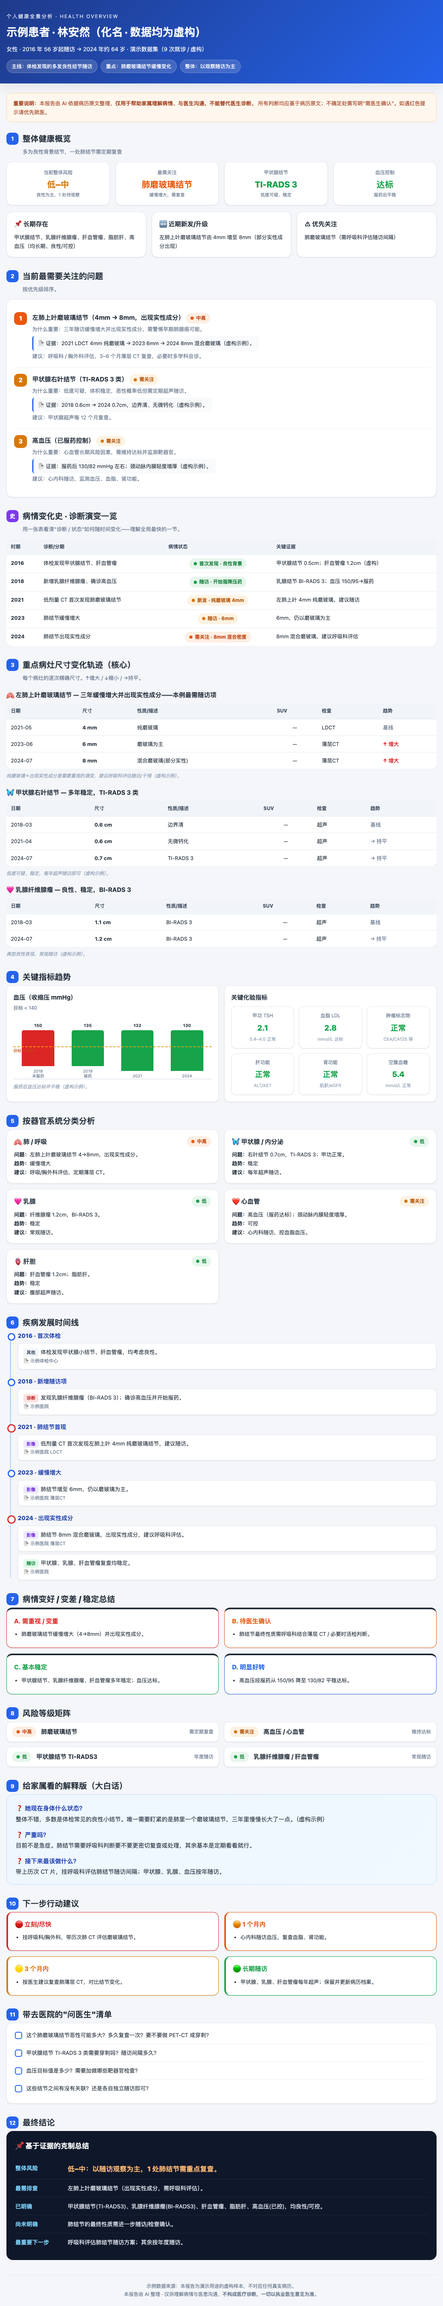
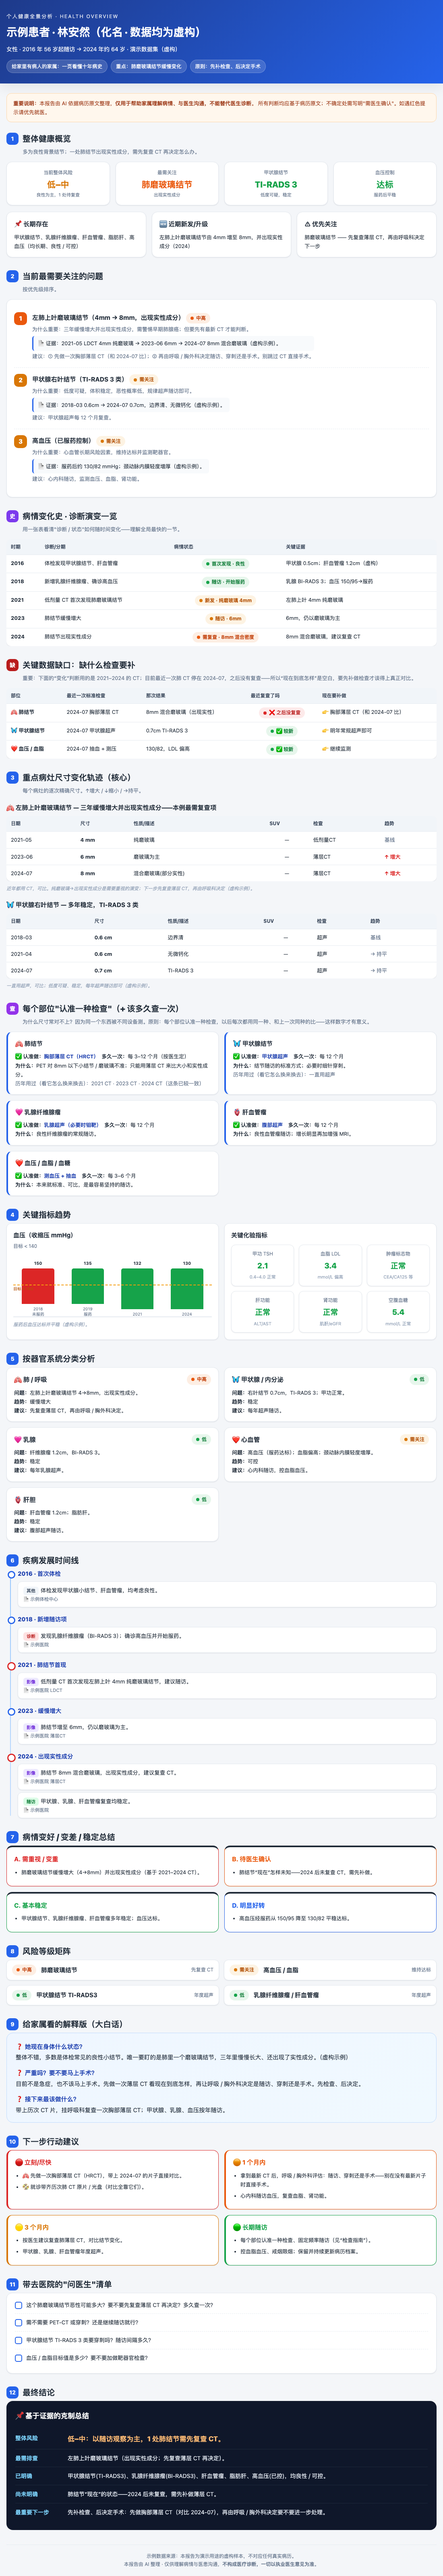
feat: data-gap table,认准一种检查 follow-up plan, check-first ordering
Add two new generator sections: data_gaps (which standard exam each site is
missing / go get it) and exam_plan (认准一种检查 + how often = what a proper
checkup should include). Enforce 'examine first, decide surgery later' in the
sample. Per-lesion rows now emphasize year-month + modality so same-site
comparisons are honest. Refreshed fictional sample, preview images, schema,
SKILL.md, and a re-positioned README for family caregivers.

diff --git a/examples/sample_report.html b/examples/sample_report.html
@@ -75,79 +75,89 @@ footer{text-align:center;color:var(--muted);font-size:12px;margin-top:36px;paddi
 </style></head><body><header class="top"><div class="wrap">
       <div class="brand">个人健康全景分析 · HEALTH OVERVIEW</div>
       <h1>示例患者 · 林安然（化名 · 数据均为虚构）</h1>
-      <div class="sub">女性 · 2016 年 56 岁起随访 → 2024 年约 64 岁 · 演示数据集（9 次就诊 / 虚构）</div>
-      <div class="pills"><span class="pill">主线：体检发现的多发良性结节随访</span><span class="pill">重点：肺磨玻璃结节缓慢变化</span><span class="pill">整体：以观察随访为主</span></div>
+      <div class="sub">女性 · 2016 年 56 岁起随访 → 2024 年约 64 岁 · 演示数据集（虚构）</div>
+      <div class="pills"><span class="pill">给家里有病人的家属：一页看懂十年病史</span><span class="pill">重点：肺磨玻璃结节缓慢变化</span><span class="pill">原则：先补检查、后决定手术</span></div>
     </div></header><div class="wrap">
 <div class="disclaimer"><b>重要说明：</b>本报告由 AI 依据病历原文整理，<b>仅用于帮助家属理解病情、与医生沟通，不能替代医生诊断</b>。
       所有判断均应基于病历原文；不确定处需写明"需医生确认"。如遇红色提示请优先就医。</div>
 <section><h2 class="sec"><span class="num">1</span>整体健康概览</h2>
-          <p class="sec-desc">多为良性背景结节，一处肺结节需定期复查</p>
-          <div class="stats" style="margin-bottom:16px"><div class="stat"><div class="k">当前整体风险</div><div class="v" style="color:var(--yellow)">低–中</div><div class="note">良性为主，1 处待观察</div></div><div class="stat"><div class="k">最需关注</div><div class="v" style="color:var(--orange)">肺磨玻璃结节</div><div class="note">缓慢增大，需复查</div></div><div class="stat"><div class="k">甲状腺结节</div><div class="v" style="color:var(--green)">TI-RADS 3</div><div class="note">低度可疑，稳定</div></div><div class="stat"><div class="k">血压控制</div><div class="v" style="color:var(--green)">达标</div><div class="note">服药后平稳</div></div></div>
+          <p class="sec-desc">多为良性背景结节；一处肺结节出现实性成分，需先复查 CT 再决定怎么办。</p>
+          <div class="stats" style="margin-bottom:16px"><div class="stat"><div class="k">当前整体风险</div><div class="v" style="color:var(--yellow)">低–中</div><div class="note">良性为主，1 处待复查</div></div><div class="stat"><div class="k">最需关注</div><div class="v" style="color:var(--orange)">肺磨玻璃结节</div><div class="note">出现实性成分</div></div><div class="stat"><div class="k">甲状腺结节</div><div class="v" style="color:var(--green)">TI-RADS 3</div><div class="note">低度可疑，稳定</div></div><div class="stat"><div class="k">血压控制</div><div class="v" style="color:var(--green)">达标</div><div class="note">服药后平稳</div></div></div>
           <div class="grid g3">
-            <div class="card"><h3>📌 长期存在</h3><div style="font-size:13px">甲状腺结节、乳腺纤维腺瘤、肝血管瘤、脂肪肝、高血压（均长期、良性/可控）</div></div>
-            <div class="card"><h3>🆕 近期新发/升级</h3><div style="font-size:13px">左肺上叶磨玻璃结节由 4mm 增至 8mm（部分实性成分出现）</div></div>
-            <div class="card"><h3>⚠ 优先关注</h3><div style="font-size:13px">肺磨玻璃结节（需呼吸科评估随访间隔）</div></div>
+            <div class="card"><h3>📌 长期存在</h3><div style="font-size:13px">甲状腺结节、乳腺纤维腺瘤、肝血管瘤、脂肪肝、高血压（均长期、良性 / 可控）</div></div>
+            <div class="card"><h3>🆕 近期新发/升级</h3><div style="font-size:13px">左肺上叶磨玻璃结节由 4mm 增至 8mm，并出现实性成分（2024）</div></div>
+            <div class="card"><h3>⚠ 优先关注</h3><div style="font-size:13px">肺磨玻璃结节 —— 先复查薄层 CT，再由呼吸科决定下一步</div></div>
           </div></section>
 <section><h2 class="sec"><span class="num">2</span>当前最需要关注的问题</h2>
           <p class="sec-desc">按优先级排序。</p><div class="card top5"><div class="row"><div class="rank" style="background:var(--orange)">1</div>
               <div class="body"><div class="title">左肺上叶磨玻璃结节（4mm → 8mm，出现实性成分） <span class="badge b-orange"><span class="dotr d-orange"></span>中高</span></div>
-              <div class="meta">为什么重要：三年随访缓慢增大并出现实性成分，需警惕早期肺腺癌可能。</div>
-              <div class="ev">📄 证据：2021 LDCT 4mm 纯磨玻璃 → 2023 6mm → 2024 8mm 混合磨玻璃（虚构示例）。</div>
-              <div class="meta">建议：呼吸科 / 胸外科评估，3–6 个月薄层 CT 复查，必要时多学科会诊。</div></div></div><div class="row"><div class="rank" style="background:var(--yellow)">2</div>
+              <div class="meta">为什么重要：三年缓慢增大并出现实性成分，需警惕早期肺腺癌；但要先有最新 CT 才能判断。</div>
+              <div class="ev">📄 证据：2021-05 LDCT 4mm 纯磨玻璃 → 2023-06 6mm → 2024-07 8mm 混合磨玻璃（虚构示例）。</div>
+              <div class="meta">建议：① 先做一次胸部薄层 CT（和 2024-07 比）；② 再由呼吸 / 胸外科决定随访、穿刺还是手术。别跳过 CT 直接手术。</div></div></div><div class="row"><div class="rank" style="background:var(--yellow)">2</div>
               <div class="body"><div class="title">甲状腺右叶结节（TI-RADS 3 类） <span class="badge b-yellow"><span class="dotr d-yellow"></span>需关注</span></div>
-              <div class="meta">为什么重要：低度可疑，体积稳定，恶性概率低但需定期超声随访。</div>
-              <div class="ev">📄 证据：2018 0.6cm → 2024 0.7cm，边界清、无微钙化（虚构示例）。</div>
+              <div class="meta">为什么重要：低度可疑，体积稳定，恶性概率低，规律超声随访即可。</div>
+              <div class="ev">📄 证据：2018-03 0.6cm → 2024-07 0.7cm，边界清、无微钙化（虚构示例）。</div>
               <div class="meta">建议：甲状腺超声每 12 个月复查。</div></div></div><div class="row"><div class="rank" style="background:var(--yellow)">3</div>
               <div class="body"><div class="title">高血压（已服药控制） <span class="badge b-yellow"><span class="dotr d-yellow"></span>需关注</span></div>
-              <div class="meta">为什么重要：心血管长期风险因素，需维持达标并监测靶器官。</div>
-              <div class="ev">📄 证据：服药后 130/82 mmHg 左右；颈动脉内膜轻度增厚（虚构示例）。</div>
+              <div class="meta">为什么重要：心血管长期风险因素，维持达标并监测靶器官。</div>
+              <div class="ev">📄 证据：服药后约 130/82 mmHg；颈动脉内膜轻度增厚（虚构示例）。</div>
               <div class="meta">建议：心内科随访，监测血压、血脂、肾功能。</div></div></div></div></section>
 <section><h2 class="sec"><span class="num" style="background:#7c3aed">史</span>病情变化史 · 诊断演变一览</h2>
           <p class="sec-desc">用一张表看清"诊断 / 状态"如何随时间变化——理解全局最快的一节。</p>
           <div class="scroll"><table><thead><tr><th>时期</th><th>诊断/分期</th><th>病情状态</th><th>关键证据</th></tr></thead>
-          <tbody><tr><td><b>2016</b></td><td>体检发现甲状腺结节、肝血管瘤</td><td class="c"><span class="badge b-green"><span class="dotr d-green"></span>首次发现 · 良性背景</span></td><td>甲状腺结节 0.5cm；肝血管瘤 1.2cm（虚构）</td></tr><tr><td><b>2018</b></td><td>新增乳腺纤维腺瘤、确诊高血压</td><td class="c"><span class="badge b-green"><span class="dotr d-green"></span>随访 · 开始服降压药</span></td><td>乳腺结节 BI-RADS 3；血压 150/95→服药</td></tr><tr><td><b>2021</b></td><td>低剂量 CT 首次发现肺磨玻璃结节</td><td class="c"><span class="badge b-yellow"><span class="dotr d-yellow"></span>新发 · 纯磨玻璃 4mm</span></td><td>左肺上叶 4mm 纯磨玻璃，建议随访</td></tr><tr><td><b>2023</b></td><td>肺结节缓慢增大</td><td class="c"><span class="badge b-yellow"><span class="dotr d-yellow"></span>随访 · 6mm</span></td><td>6mm，仍以磨玻璃为主</td></tr><tr><td><b>2024</b></td><td>肺结节出现实性成分</td><td class="c"><span class="badge b-orange"><span class="dotr d-orange"></span>需关注 · 8mm 混合密度</span></td><td>8mm 混合磨玻璃，建议呼吸科评估</td></tr></tbody></table></div></section>
+          <tbody><tr><td><b>2016</b></td><td>体检发现甲状腺结节、肝血管瘤</td><td class="c"><span class="badge b-green"><span class="dotr d-green"></span>首次发现 · 良性</span></td><td>甲状腺 0.5cm；肝血管瘤 1.2cm（虚构）</td></tr><tr><td><b>2018</b></td><td>新增乳腺纤维腺瘤、确诊高血压</td><td class="c"><span class="badge b-green"><span class="dotr d-green"></span>随访 · 开始服药</span></td><td>乳腺 BI-RADS 3；血压 150/95→服药</td></tr><tr><td><b>2021</b></td><td>低剂量 CT 首次发现肺磨玻璃结节</td><td class="c"><span class="badge b-yellow"><span class="dotr d-yellow"></span>新发 · 纯磨玻璃 4mm</span></td><td>左肺上叶 4mm 纯磨玻璃</td></tr><tr><td><b>2023</b></td><td>肺结节缓慢增大</td><td class="c"><span class="badge b-yellow"><span class="dotr d-yellow"></span>随访 · 6mm</span></td><td>6mm，仍以磨玻璃为主</td></tr><tr><td><b>2024</b></td><td>肺结节出现实性成分</td><td class="c"><span class="badge b-orange"><span class="dotr d-orange"></span>需复查 · 8mm 混合密度</span></td><td>8mm 混合磨玻璃，建议复查 CT</td></tr></tbody></table></div></section>
+<section><h2 class="sec"><span class="num" style="background:#b91c1c">缺</span>关键数据缺口：缺什么检查要补</h2>
+          <p class="sec-desc">重要：下面的“变化”判断用的是 2021–2024 的 CT；目前最近一次肺 CT 停在 2024-07，之后没有复查——所以“现在到底怎样”是空白，要先补做检查才谈得上真正对比。</p>
+          <div class="scroll"><table><thead><tr><th>部位</th><th>最近一次标准检查</th><th>那次结果</th><th>最近复查了吗</th><th>现在要补做</th></tr></thead>
+          <tbody><tr><td><b>🫁 肺结节</b></td><td>2024-07 胸部薄层 CT</td><td>8mm 混合磨玻璃（出现实性）</td><td class="c"><span class="badge b-red"><span class="dotr d-red"></span>❌ 之后没复查</span></td><td>👉 胸部薄层 CT（和 2024-07 比）</td></tr><tr><td><b>🦋 甲状腺结节</b></td><td>2024-07 甲状腺超声</td><td>0.7cm TI-RADS 3</td><td class="c"><span class="badge b-green"><span class="dotr d-green"></span>✅ 较新</span></td><td>👉 明年常规超声即可</td></tr><tr><td><b>❤ 血压 / 血脂</b></td><td>2024-07 抽血 + 测压</td><td>130/82，LDL 偏高</td><td class="c"><span class="badge b-green"><span class="dotr d-green"></span>✅ 较新</span></td><td>👉 继续监测</td></tr></tbody></table></div></section>
 <section><h2 class="sec"><span class="num">3</span>重点病灶尺寸变化轨迹（核心）</h2>
-          <p class="sec-desc">每个病灶的逐次精确尺寸。↑增大 / ↓缩小 / →持平。</p><h3 style="margin:18px 0 8px;font-size:15.5px">🫁 左肺上叶磨玻璃结节 — 三年缓慢增大并出现实性成分——本例最需随访项</h3>
+          <p class="sec-desc">每个病灶的逐次精确尺寸。↑增大 / ↓缩小 / →持平。</p><h3 style="margin:18px 0 8px;font-size:15.5px">🫁 左肺上叶磨玻璃结节 — 三年缓慢增大并出现实性成分——本例最需复查项</h3>
               <div class="scroll"><table><thead><tr><th>日期</th><th>尺寸</th><th>性质/描述</th><th>SUV</th><th>检查</th><th>趋势</th></tr></thead>
-              <tbody><tr><td>2021-05</td><td><b>4 mm</b></td><td>纯磨玻璃</td><td class="c">—</td><td>LDCT</td><td class="flat">基线</td></tr><tr><td>2023-06</td><td><b>6 mm</b></td><td>磨玻璃为主</td><td class="c">—</td><td>薄层CT</td><td class="up">↑ 增大</td></tr><tr><td>2024-07</td><td><b>8 mm</b></td><td>混合磨玻璃(部分实性)</td><td class="c">—</td><td>薄层CT</td><td class="up">↑ 增大</td></tr></tbody></table></div><p class="note-src">纯磨玻璃→出现实性成分是需要重视的演变，建议呼吸科评估随访/干预（虚构示例）。</p><h3 style="margin:18px 0 8px;font-size:15.5px">🦋 甲状腺右叶结节 — 多年稳定，TI-RADS 3 类</h3>
+              <tbody><tr><td>2021-05</td><td><b>4 mm</b></td><td>纯磨玻璃</td><td class="c">—</td><td>低剂量CT</td><td class="flat">基线</td></tr><tr><td>2023-06</td><td><b>6 mm</b></td><td>磨玻璃为主</td><td class="c">—</td><td>薄层CT</td><td class="up">↑ 增大</td></tr><tr><td>2024-07</td><td><b>8 mm</b></td><td>混合磨玻璃(部分实性)</td><td class="c">—</td><td>薄层CT</td><td class="up">↑ 增大</td></tr></tbody></table></div><p class="note-src">近年都用 CT，可比。纯磨玻璃→出现实性成分是需要重视的演变；下一步先复查薄层 CT，再由呼吸科决定（虚构示例）。</p><h3 style="margin:18px 0 8px;font-size:15.5px">🦋 甲状腺右叶结节 — 多年稳定，TI-RADS 3 类</h3>
               <div class="scroll"><table><thead><tr><th>日期</th><th>尺寸</th><th>性质/描述</th><th>SUV</th><th>检查</th><th>趋势</th></tr></thead>
-              <tbody><tr><td>2018-03</td><td><b>0.6 cm</b></td><td>边界清</td><td class="c">—</td><td>超声</td><td class="flat">基线</td></tr><tr><td>2021-04</td><td><b>0.6 cm</b></td><td>无微钙化</td><td class="c">—</td><td>超声</td><td class="flat">→ 持平</td></tr><tr><td>2024-07</td><td><b>0.7 cm</b></td><td>TI-RADS 3</td><td class="c">—</td><td>超声</td><td class="flat">→ 持平</td></tr></tbody></table></div><p class="note-src">低度可疑、稳定，每年超声随访即可（虚构示例）。</p><h3 style="margin:18px 0 8px;font-size:15.5px">🩷 乳腺纤维腺瘤 — 良性、稳定，BI-RADS 3</h3>
-              <div class="scroll"><table><thead><tr><th>日期</th><th>尺寸</th><th>性质/描述</th><th>SUV</th><th>检查</th><th>趋势</th></tr></thead>
-              <tbody><tr><td>2018-03</td><td><b>1.1 cm</b></td><td>BI-RADS 3</td><td class="c">—</td><td>超声</td><td class="flat">基线</td></tr><tr><td>2024-07</td><td><b>1.2 cm</b></td><td>BI-RADS 3</td><td class="c">—</td><td>超声</td><td class="flat">→ 持平</td></tr></tbody></table></div><p class="note-src">典型良性表现，常规随访（虚构示例）。</p></section>
+              <tbody><tr><td>2018-03</td><td><b>0.6 cm</b></td><td>边界清</td><td class="c">—</td><td>超声</td><td class="flat">基线</td></tr><tr><td>2021-04</td><td><b>0.6 cm</b></td><td>无微钙化</td><td class="c">—</td><td>超声</td><td class="flat">→ 持平</td></tr><tr><td>2024-07</td><td><b>0.7 cm</b></td><td>TI-RADS 3</td><td class="c">—</td><td>超声</td><td class="flat">→ 持平</td></tr></tbody></table></div><p class="note-src">一直用超声，可比；低度可疑、稳定，每年超声随访即可（虚构示例）。</p></section>
+<section><h2 class="sec"><span class="num" style="background:#9333ea">查</span>每个部位"认准一种检查"（+ 该多久查一次）</h2>
+          <p class="sec-desc">为什么尺寸常对不上？因为同一个东西被不同设备测。原则：每个部位认准一种检查，以后每次都用同一种、和上一次同种的比——这样数字才有意义。</p>
+          <div class="grid g2"><div class="card" style="border-left:4px solid var(--blue)"><h3 style="font-size:15px">🫁 肺结节</h3>
+            <div style="font-size:13px"><b>✅ 认准做：</b><span style="color:var(--blue-d)"><b>胸部薄层 CT（HRCT）</b></span>　<b>多久一次：</b>每 3–12 个月（按医生定）<br><b>为什么：</b>PET 对 8mm 以下小结节 / 磨玻璃不准；只能用薄层 CT 来比大小和实性成分。<br><span style="color:var(--muted)">历年用过（看它怎么换来换去）：2021 CT · 2023 CT · 2024 CT（这条已较一致）</span></div></div><div class="card" style="border-left:4px solid var(--blue)"><h3 style="font-size:15px">🦋 甲状腺结节</h3>
+            <div style="font-size:13px"><b>✅ 认准做：</b><span style="color:var(--blue-d)"><b>甲状腺超声</b></span>　<b>多久一次：</b>每 12 个月<br><b>为什么：</b>结节随访的标准方式；必要时细针穿刺。<br><span style="color:var(--muted)">历年用过（看它怎么换来换去）：一直用超声</span></div></div><div class="card" style="border-left:4px solid var(--blue)"><h3 style="font-size:15px">🩷 乳腺纤维腺瘤</h3>
+            <div style="font-size:13px"><b>✅ 认准做：</b><span style="color:var(--blue-d)"><b>乳腺超声（必要时钼靶）</b></span>　<b>多久一次：</b>每 12 个月<br><b>为什么：</b>良性纤维腺瘤的常规随访。</div></div><div class="card" style="border-left:4px solid var(--blue)"><h3 style="font-size:15px">🫀 肝血管瘤</h3>
+            <div style="font-size:13px"><b>✅ 认准做：</b><span style="color:var(--blue-d)"><b>腹部超声</b></span>　<b>多久一次：</b>每 12 个月<br><b>为什么：</b>良性血管瘤随访；增长明显再加增强 MRI。</div></div><div class="card" style="border-left:4px solid var(--blue)"><h3 style="font-size:15px">❤ 血压 / 血脂 / 血糖</h3>
+            <div style="font-size:13px"><b>✅ 认准做：</b><span style="color:var(--blue-d)"><b>测血压 + 抽血</b></span>　<b>多久一次：</b>每 3–6 个月<br><b>为什么：</b>本来就标准、可比，是最容易坚持的随访。</div></div></div></section>
 <section><h2 class="sec"><span class="num">4</span>关键指标趋势</h2>
           <div class="grid g2"><div class="chart"><h3 style="margin:0 0 4px;font-size:15px">血压（收缩压 mmHg）</h3>
               <div style="font-size:12px;color:var(--muted);margin-bottom:6px">目标 &lt; 140</div>
               <div class="bars"><div class="refline" style="bottom:calc(18px + 0.30000000000000004*(160px - 18px))">目标 &lt; 140</div><div class="bar"><div class="val">150</div><div class="col" style="height:100%;background:var(--red)"></div><div class="lab">2018
 未服药</div></div><div class="bar"><div class="val">135</div><div class="col" style="height:90%;background:var(--green)"></div><div class="lab">2019
-服药</div></div><div class="bar"><div class="val">132</div><div class="col" style="height:88%;background:var(--green)"></div><div class="lab">2021</div></div><div class="bar"><div class="val">130</div><div class="col" style="height:86%;background:var(--green)"></div><div class="lab">2024</div></div></div><p class="note-src">服药后血压达标并平稳（虚构示例）。</p></div><div class="chart"><h3 style="margin:0 0 10px;font-size:15px">关键化验指标</h3><div class="marker-grid"><div class="mk"><div class="n">甲功 TSH</div><div class="vv">2.1</div><div class="rg">0.4–4.0 正常</div></div><div class="mk"><div class="n">血脂 LDL</div><div class="vv">2.8</div><div class="rg">mmol/L 达标</div></div><div class="mk"><div class="n">肿瘤标志物</div><div class="vv">正常</div><div class="rg">CEA/CA125 等</div></div><div class="mk"><div class="n">肝功能</div><div class="vv">正常</div><div class="rg">ALT/AST</div></div><div class="mk"><div class="n">肾功能</div><div class="vv">正常</div><div class="rg">肌酐/eGFR</div></div><div class="mk"><div class="n">空腹血糖</div><div class="vv">5.4</div><div class="rg">mmol/L 正常</div></div></div></div></div></section>
+服药</div></div><div class="bar"><div class="val">132</div><div class="col" style="height:88%;background:var(--green)"></div><div class="lab">2021</div></div><div class="bar"><div class="val">130</div><div class="col" style="height:86%;background:var(--green)"></div><div class="lab">2024</div></div></div><p class="note-src">服药后血压达标并平稳（虚构示例）。</p></div><div class="chart"><h3 style="margin:0 0 10px;font-size:15px">关键化验指标</h3><div class="marker-grid"><div class="mk"><div class="n">甲功 TSH</div><div class="vv">2.1</div><div class="rg">0.4–4.0 正常</div></div><div class="mk"><div class="n">血脂 LDL</div><div class="vv">3.4</div><div class="rg">mmol/L 偏高</div></div><div class="mk"><div class="n">肿瘤标志物</div><div class="vv">正常</div><div class="rg">CEA/CA125 等</div></div><div class="mk"><div class="n">肝功能</div><div class="vv">正常</div><div class="rg">ALT/AST</div></div><div class="mk"><div class="n">肾功能</div><div class="vv">正常</div><div class="rg">肌酐/eGFR</div></div><div class="mk"><div class="n">空腹血糖</div><div class="vv">5.4</div><div class="rg">mmol/L 正常</div></div></div></div></div></section>
 <section><h2 class="sec"><span class="num">5</span>按器官系统分类分析</h2>
           <div class="grid g2"><div class="card"><h3><span>🫁 肺 / 呼吸</span><span class="badge b-orange"><span class="dotr d-orange"></span>中高</span></h3>
-            <div style="font-size:13px"><b>问题：</b>左肺上叶磨玻璃结节 4→8mm，出现实性成分。<br><b>趋势：</b>缓慢增大<br><b>建议：</b>呼吸/胸外科评估，定期薄层 CT。</div></div><div class="card"><h3><span>🦋 甲状腺 / 内分泌</span><span class="badge b-green"><span class="dotr d-green"></span>低</span></h3>
+            <div style="font-size:13px"><b>问题：</b>左肺上叶磨玻璃结节 4→8mm，出现实性成分。<br><b>趋势：</b>缓慢增大<br><b>建议：</b>先复查薄层 CT，再由呼吸 / 胸外科决定。</div></div><div class="card"><h3><span>🦋 甲状腺 / 内分泌</span><span class="badge b-green"><span class="dotr d-green"></span>低</span></h3>
             <div style="font-size:13px"><b>问题：</b>右叶结节 0.7cm，TI-RADS 3；甲功正常。<br><b>趋势：</b>稳定<br><b>建议：</b>每年超声随访。</div></div><div class="card"><h3><span>🩷 乳腺</span><span class="badge b-green"><span class="dotr d-green"></span>低</span></h3>
-            <div style="font-size:13px"><b>问题：</b>纤维腺瘤 1.2cm，BI-RADS 3。<br><b>趋势：</b>稳定<br><b>建议：</b>常规随访。</div></div><div class="card"><h3><span>❤ 心血管</span><span class="badge b-yellow"><span class="dotr d-yellow"></span>需关注</span></h3>
-            <div style="font-size:13px"><b>问题：</b>高血压（服药达标）；颈动脉内膜轻度增厚。<br><b>趋势：</b>可控<br><b>建议：</b>心内科随访，控血脂血压。</div></div><div class="card"><h3><span>🫀 肝胆</span><span class="badge b-green"><span class="dotr d-green"></span>低</span></h3>
+            <div style="font-size:13px"><b>问题：</b>纤维腺瘤 1.2cm，BI-RADS 3。<br><b>趋势：</b>稳定<br><b>建议：</b>每年乳腺超声。</div></div><div class="card"><h3><span>❤ 心血管</span><span class="badge b-yellow"><span class="dotr d-yellow"></span>需关注</span></h3>
+            <div style="font-size:13px"><b>问题：</b>高血压（服药达标）；血脂偏高；颈动脉内膜轻度增厚。<br><b>趋势：</b>可控<br><b>建议：</b>心内科随访，控血脂血压。</div></div><div class="card"><h3><span>🫀 肝胆</span><span class="badge b-green"><span class="dotr d-green"></span>低</span></h3>
             <div style="font-size:13px"><b>问题：</b>肝血管瘤 1.2cm；脂肪肝。<br><b>趋势：</b>稳定<br><b>建议：</b>腹部超声随访。</div></div></div></section>
 <section><h2 class="sec"><span class="num">6</span>疾病发展时间线</h2>
-          <div class="timeline"><div class="tl"><div class="yr">2016 · 首次体检</div><div class="ev"><span class="tag t-other">其他</span>体检发现甲状腺小结节、肝血管瘤，均考虑良性。<div class="where">📄 示例体检中心</div></div></div><div class="tl"><div class="yr">2018 · 新增随访项</div><div class="ev"><span class="tag t-dx">诊断</span>发现乳腺纤维腺瘤（BI-RADS 3）；确诊高血压并开始服药。<div class="where">📄 示例医院</div></div></div><div class="tl major"><div class="yr">2021 · 肺结节首现</div><div class="ev"><span class="tag t-img">影像</span>低剂量 CT 首次发现左肺上叶 4mm 纯磨玻璃结节，建议随访。<div class="where">📄 示例医院 LDCT</div></div></div><div class="tl"><div class="yr">2023 · 缓慢增大</div><div class="ev"><span class="tag t-img">影像</span>肺结节增至 6mm，仍以磨玻璃为主。<div class="where">📄 示例医院 薄层CT</div></div></div><div class="tl major"><div class="yr">2024 · 出现实性成分</div><div class="ev"><span class="tag t-img">影像</span>肺结节 8mm 混合磨玻璃，出现实性成分，建议呼吸科评估。<div class="where">📄 示例医院 薄层CT</div></div><div class="ev"><span class="tag t-fu">随访</span>甲状腺、乳腺、肝血管瘤复查均稳定。<div class="where">📄 示例医院</div></div></div></div></section>
+          <div class="timeline"><div class="tl"><div class="yr">2016 · 首次体检</div><div class="ev"><span class="tag t-other">其他</span>体检发现甲状腺小结节、肝血管瘤，均考虑良性。<div class="where">📄 示例体检中心</div></div></div><div class="tl"><div class="yr">2018 · 新增随访项</div><div class="ev"><span class="tag t-dx">诊断</span>发现乳腺纤维腺瘤（BI-RADS 3）；确诊高血压并开始服药。<div class="where">📄 示例医院</div></div></div><div class="tl major"><div class="yr">2021 · 肺结节首现</div><div class="ev"><span class="tag t-img">影像</span>低剂量 CT 首次发现左肺上叶 4mm 纯磨玻璃结节，建议随访。<div class="where">📄 示例医院 LDCT</div></div></div><div class="tl"><div class="yr">2023 · 缓慢增大</div><div class="ev"><span class="tag t-img">影像</span>肺结节增至 6mm，仍以磨玻璃为主。<div class="where">📄 示例医院 薄层CT</div></div></div><div class="tl major"><div class="yr">2024 · 出现实性成分</div><div class="ev"><span class="tag t-img">影像</span>肺结节 8mm 混合磨玻璃，出现实性成分，建议复查 CT。<div class="where">📄 示例医院 薄层CT</div></div><div class="ev"><span class="tag t-fu">随访</span>甲状腺、乳腺、肝血管瘤复查均稳定。<div class="where">📄 示例医院</div></div></div></div></section>
 <section><h2 class="sec"><span class="num">7</span>病情变好 / 变差 / 稳定总结</h2>
           <div class="grid g2 change">
-            <div class="card ch-worse"><h3 style="color:var(--red)">A. 需重视 / 变重</h3><ul><li>肺磨玻璃结节缓慢增大（4→8mm）并出现实性成分。</li></ul></div>
-            <div class="card ch-maybe"><h3 style="color:var(--orange)">B. 待医生确认</h3><ul><li>肺结节最终性质需呼吸科结合薄层 CT / 必要时活检判断。</li></ul></div>
+            <div class="card ch-worse"><h3 style="color:var(--red)">A. 需重视 / 变重</h3><ul><li>肺磨玻璃结节缓慢增大（4→8mm）并出现实性成分（基于 2021–2024 CT）。</li></ul></div>
+            <div class="card ch-maybe"><h3 style="color:var(--orange)">B. 待医生确认</h3><ul><li>肺结节“现在”怎样未知——2024 后未复查 CT，需先补做。</li></ul></div>
             <div class="card ch-stable"><h3 style="color:var(--green)">C. 基本稳定</h3><ul><li>甲状腺结节、乳腺纤维腺瘤、肝血管瘤多年稳定；血压达标。</li></ul></div>
             <div class="card ch-better"><h3 style="color:var(--blue)">D. 明显好转</h3><ul><li>高血压经服药从 150/95 降至 130/82 平稳达标。</li></ul></div>
           </div></section>
-<section><h2 class="sec"><span class="num">8</span>风险等级矩阵</h2><div class="risk-matrix"><div class="rm"><span class="badge b-orange"><span class="dotr d-orange"></span>中高</span><span class="sys">肺磨玻璃结节</span><span class="lv">需定期复查</span></div><div class="rm"><span class="badge b-yellow"><span class="dotr d-yellow"></span>需关注</span><span class="sys">高血压 / 心血管</span><span class="lv">维持达标</span></div><div class="rm"><span class="badge b-green"><span class="dotr d-green"></span>低</span><span class="sys">甲状腺结节 TI-RADS3</span><span class="lv">年度随访</span></div><div class="rm"><span class="badge b-green"><span class="dotr d-green"></span>低</span><span class="sys">乳腺纤维腺瘤 / 肝血管瘤</span><span class="lv">常规随访</span></div></div></section>
+<section><h2 class="sec"><span class="num">8</span>风险等级矩阵</h2><div class="risk-matrix"><div class="rm"><span class="badge b-orange"><span class="dotr d-orange"></span>中高</span><span class="sys">肺磨玻璃结节</span><span class="lv">先复查 CT</span></div><div class="rm"><span class="badge b-yellow"><span class="dotr d-yellow"></span>需关注</span><span class="sys">高血压 / 血脂</span><span class="lv">维持达标</span></div><div class="rm"><span class="badge b-green"><span class="dotr d-green"></span>低</span><span class="sys">甲状腺结节 TI-RADS3</span><span class="lv">年度超声</span></div><div class="rm"><span class="badge b-green"><span class="dotr d-green"></span>低</span><span class="sys">乳腺纤维腺瘤 / 肝血管瘤</span><span class="lv">年度超声</span></div></div></section>
 <section><h2 class="sec"><span class="num">9</span>给家属看的解释版（大白话）</h2>
-          <div class="family qa"><div class="q">❓ 她现在身体什么状态？</div><div class="a">整体不错，多数是体检常见的良性小结节。唯一需要盯紧的是肺里一个磨玻璃结节，三年里慢慢长大了一点。（虚构示例）</div><div class="q">❓ 严重吗？</div><div class="a">目前不是急症。肺结节需要呼吸科判断要不要更密切复查或处理，其余基本是定期看看就行。</div><div class="q">❓ 接下来最该做什么？</div><div class="a">带上历次 CT 片，挂呼吸科评估肺结节随访间隔；甲状腺、乳腺、血压按年随访。</div></div></section>
+          <div class="family qa"><div class="q">❓ 她现在身体什么状态？</div><div class="a">整体不错，多数是体检常见的良性小结节。唯一要盯的是肺里一个磨玻璃结节，三年里慢慢长大、还出现了实性成分。（虚构示例）</div><div class="q">❓ 严重吗？要不要马上手术？</div><div class="a">目前不是急症，也不该马上手术。先做一次薄层 CT 看现在到底怎样，再让呼吸 / 胸外科决定是随访、穿刺还是手术。先检查、后决定。</div><div class="q">❓ 接下来最该做什么？</div><div class="a">带上历次 CT 片，挂呼吸科复查一次胸部薄层 CT；甲状腺、乳腺、血压按年随访。</div></div></section>
 <section><h2 class="sec"><span class="num">10</span>下一步行动建议</h2>
           <div class="grid g2 action">
-            <div class="card now"><h3 style="color:var(--red)">🔴 立刻/尽快</h3><ul><li>挂呼吸科/胸外科，带历次肺 CT 评估磨玻璃结节。</li></ul></div>
-            <div class="card m1"><h3 style="color:var(--orange)">🟠 1 个月内</h3><ul><li>心内科随访血压，复查血脂、肾功能。</li></ul></div>
-            <div class="card m3"><h3 style="color:var(--yellow)">🟡 3 个月内</h3><ul><li>按医生建议复查肺薄层 CT，对比结节变化。</li></ul></div>
-            <div class="card lt"><h3 style="color:var(--green)">🟢 长期随访</h3><ul><li>甲状腺、乳腺、肝血管瘤每年超声；保留并更新病历档案。</li></ul></div>
+            <div class="card now"><h3 style="color:var(--red)">🔴 立刻/尽快</h3><ul><li>🫁 先做一次胸部薄层 CT（HRCT），带上 2024-07 的片子直接对比。</li><li>📀 就诊带齐历次肺 CT 原片 / 光盘（对比全靠它们）。</li></ul></div>
+            <div class="card m1"><h3 style="color:var(--orange)">🟠 1 个月内</h3><ul><li>拿到最新 CT 后，呼吸 / 胸外科评估：随访、穿刺还是手术——别在没有最新片子时直接手术。</li><li>心内科随访血压，复查血脂、肾功能。</li></ul></div>
+            <div class="card m3"><h3 style="color:var(--yellow)">🟡 3 个月内</h3><ul><li>按医生建议复查肺薄层 CT，对比结节变化。</li><li>甲状腺、乳腺、肝血管瘤年度超声。</li></ul></div>
+            <div class="card lt"><h3 style="color:var(--green)">🟢 长期随访</h3><ul><li>每个部位认准一种检查、固定频率随访（见“检查指南”）。</li><li>控血脂血压、戒烟限烟；保留并持续更新病历档案。</li></ul></div>
           </div></section>
 <section><h2 class="sec"><span class="num">11</span>带去医院的"问医生"清单</h2>
-          <div class="checklist"><div class="item"><span class="box"></span><span>这个肺磨玻璃结节恶性可能多大？多久复查一次？要不要做 PET-CT 或穿刺？</span></div><div class="item"><span class="box"></span><span>甲状腺结节 TI-RADS 3 类需要穿刺吗？随访间隔多久？</span></div><div class="item"><span class="box"></span><span>血压目标值是多少？需要加做哪些靶器官检查？</span></div><div class="item"><span class="box"></span><span>这些结节之间有没有关联？还是各自独立随访即可？</span></div></div></section>
+          <div class="checklist"><div class="item"><span class="box"></span><span>这个肺磨玻璃结节恶性可能多大？要不要先复查薄层 CT 再决定？多久查一次？</span></div><div class="item"><span class="box"></span><span>需不需要 PET-CT 或穿刺？还是继续随访就行？</span></div><div class="item"><span class="box"></span><span>甲状腺结节 TI-RADS 3 类要穿刺吗？随访间隔多久？</span></div><div class="item"><span class="box"></span><span>血压 / 血脂目标值是多少？要不要加做靶器官检查？</span></div></div></section>
 <section><h2 class="sec"><span class="num">12</span>最终结论</h2>
-          <div class="concl"><h3>📌 基于证据的克制总结</h3><div class="line"><span class="k">整体风险</span><span class="big" style="color:#fdba74">低–中：以随访观察为主，1 处肺结节需重点复查。</span></div><div class="line"><span class="k">最需排查</span><span>左肺上叶磨玻璃结节（出现实性成分，需呼吸科评估）。</span></div><div class="line"><span class="k">已明确</span><span>甲状腺结节(TI-RADS3)、乳腺纤维腺瘤(BI-RADS3)、肝血管瘤、脂肪肝、高血压(已控)，均良性/可控。</span></div><div class="line"><span class="k">尚未明确</span><span>肺结节的最终性质需进一步随访/检查确认。</span></div><div class="line"><span class="k">最重要下一步</span><span>呼吸科评估肺结节随访方案；其余按年度随访。</span></div></div></section>
+          <div class="concl"><h3>📌 基于证据的克制总结</h3><div class="line"><span class="k">整体风险</span><span class="big" style="color:#fdba74">低–中：以随访观察为主，1 处肺结节需先复查 CT。</span></div><div class="line"><span class="k">最需排查</span><span>左肺上叶磨玻璃结节（出现实性成分；先复查薄层 CT 再决定）。</span></div><div class="line"><span class="k">已明确</span><span>甲状腺结节(TI-RADS3)、乳腺纤维腺瘤(BI-RADS3)、肝血管瘤、脂肪肝、高血压(已控)，均良性 / 可控。</span></div><div class="line"><span class="k">尚未明确</span><span>肺结节“现在”的状态——2024 后未复查，需先补做薄层 CT。</span></div><div class="line"><span class="k">最重要下一步</span><span>先补检查、后决定手术：先做胸部薄层 CT（对比 2024-07），再由呼吸 / 胸外科决定要不要进一步处理。</span></div></div></section>
 <footer>示例数据来源：本报告为演示用途的虚构样本，不对应任何真实病历。<br>本报告由 AI 整理 · 仅供理解病情与医患沟通，<b>不构成医疗诊断，一切以执业医生意见为准</b>。</footer></div></body></html>

diff --git a/scripts/build_report.py b/scripts/build_report.py
@@ -189,6 +189,19 @@ def render(d):
           <div class="scroll"><table><thead><tr><th>时期</th><th>诊断/分期</th><th>病情状态</th><th>关键证据</th></tr></thead>
           <tbody>{trs}</tbody></table></div></section>''')
 
+    # data gaps (缺什么检查要补)
+    dg = get(d, "data_gaps", [])
+    if dg:
+        trs = "".join(
+            f'<tr><td><b>{esc(get(x,"site"))}</b></td><td>{esc(get(x,"last_exam",""))}</td>'
+            f'<td>{esc(get(x,"last_result",""))}</td>'
+            f'<td class="c">{badge(get(x,"recheck_level","gray"), get(x,"recheck",""))}</td>'
+            f'<td>👉 {esc(get(x,"todo",""))}</td></tr>' for x in dg)
+        A(f'''<section><h2 class="sec"><span class="num" style="background:#b91c1c">缺</span>关键数据缺口：缺什么检查要补</h2>
+          <p class="sec-desc">{esc(get(d,"data_gaps_note","同一个部位要用同一种检查、对比同一种检查才有意义；下面列出每个部位最近一次标准检查、是否复查、以及现在该补做什么。"))}</p>
+          <div class="scroll"><table><thead><tr><th>部位</th><th>最近一次标准检查</th><th>那次结果</th><th>最近复查了吗</th><th>现在要补做</th></tr></thead>
+          <tbody>{trs}</tbody></table></div></section>''')
+
     # lesion size tracking
     lesions = get(d, "lesions", [])
     if lesions:
@@ -205,6 +218,21 @@ def render(d):
               <tbody>{"".join(trs)}</tbody></table></div><p class="note-src">{esc(get(L,"note",""))}</p>''')
         A(f'''<section><h2 class="sec"><span class="num">{secnum()}</span>重点病灶尺寸变化轨迹（核心）</h2>
           <p class="sec-desc">每个病灶的逐次精确尺寸。↑增大 / ↓缩小 / →持平。</p>{"".join(blocks)}</section>''')
+
+    # exam plan (每个部位认准做哪种检查 + 随访频率)
+    ep = get(d, "exam_plan", [])
+    if ep:
+        cards = "".join(
+            f'''<div class="card" style="border-left:4px solid var(--blue)"><h3 style="font-size:15px">{esc(get(x,"site"))}</h3>
+            <div style="font-size:13px"><b>✅ 认准做：</b><span style="color:var(--blue-d)"><b>{esc(get(x,"exam"))}</b></span>'''
+            + (f'　<b>多久一次：</b>{esc(get(x,"freq"))}' if get(x, "freq") else "")
+            + (f'<br><b>为什么：</b>{esc(get(x,"why"))}' if get(x, "why") else "")
+            + (f'<br><span style="color:var(--muted)">历年用过（看它怎么换来换去）：{esc(get(x,"used_before"))}</span>' if get(x, "used_before") else "")
+            + '</div></div>'
+            for x in ep)
+        A(f'''<section><h2 class="sec"><span class="num" style="background:#9333ea">查</span>每个部位"认准一种检查"（+ 该多久查一次）</h2>
+          <p class="sec-desc">{esc(get(d,"exam_plan_note","为什么尺寸常常对不上？因为同一个东西被 CT / 超声 / PET / MRI 换着测。原则：每个部位认准一种检查，以后每次都用同一种、和上一次同种的比。"))}</p>
+          <div class="grid g2">{cards}</div></section>''')
 
     # lab trends + markers
     labs = get(d, "lab_trends", [])

diff --git a/README.md b/README.md
@@ -2,10 +2,11 @@
 
 # 🩺 病历全景报告 · Medical History Report
 
-### 把一摞看不懂的病历，变成一页家人能看懂的健康地图。
+### 家里有人生病，一箱看不懂的检查单，变成一页家人都能看懂的健康地图。
 
-*Turn years of scattered medical records into one clear, mobile-friendly health story —
-a timeline, per-lesion size tracking, lab trends, and a checklist to bring to the doctor.*
+*For families caring for someone at home — turn years of scattered medical records
+into ONE clear, mobile-friendly health report: a disease-history timeline,
+per-lesion size tracking, what-exam-is-missing gaps, and a plain checklist for the next hospital visit.*
 
 <br>
 
@@ -18,49 +19,55 @@ a timeline, per-lesion size tracking, lab trends, and a checklist to bring to th
 
 <br>
 
-<img src="docs/preview-hero.png" width="760" alt="报告预览：健康概览仪表盘 + 最需关注的问题">
+<img src="docs/preview-hero.png" width="780" alt="报告预览：健康概览 + 最需关注的问题 + 病情变化史">
 
 </div>
 
 ---
 
-## 😣 这个问题，太多家庭都遇到过
+## 😣 这一幕，太多家庭都经历过
 
-家里老人病了十年，攒下**一整箱**化验单、CT 片、出院小结、PET-CT 报告……
-每一张你都看不太懂，更别说连起来看：
+家里老人病了好几年，攒下**一整箱**化验单、CT 片、超声、出院小结、PET 报告……
+每张你都看不太懂，更别说把十年连起来看：
 
-> *"那个结节到底是变大了还是没变？"*
-> *"这病是越来越重，还是已经稳定了？"*
+> *"那个结节到底是大了还是没变？"*
+> *"是越来越重，还是已经稳定了？"*
+> *"他这次为啥又只抽了血？该做的检查到底是哪个？"*
 > *"下次去医院，我该问医生什么？"*
 
-医生没时间帮你把十年病历从头捋一遍。**这个工具帮你捋。**
+医生没时间帮你把十年病历从头捋一遍。**这个工具帮你捋，而且捋得明明白白。**
 
-## ✨ 它能做什么
+## ✨ 它给你什么
 
-把一个人多年的病历（体检 / 化验 / 超声 / CT / MRI / PET-CT / 病理 / 出院诊断 / 用药）
-读进来，自动生成**一份自带样式、断网也能开、手机也好看的 HTML 健康报告**：
+把一个人多年的病历（体检 / 化验 / 超声 / CT / MRI / PET / 病理 / 出院诊断）读进来，
+自动生成**一份自带样式、断网也能开、手机也好看的 HTML 报告**：
 
 | | 模块 | 一句话价值 |
 |---|---|---|
-| 📊 | **健康概览仪表盘** | 整体风险一眼定级（绿/黄/橙/红）|
-| 🎯 | **Top 问题排序** | 最该操心的事，排在最前面 |
+| 📍 | **30 秒看懂** | 一句话结论 + 红黄绿三栏（每件事只出现一次，不重复）|
 | 📜 | **病情变化史** | 诊断怎么一步步演变，一张表看懂 |
-| 📈 | **病灶尺寸逐年轨迹** | "结节 2015→2025 到底长了多少"——精确到每次检查 |
-| 🧪 | **指标趋势图** | LDH / 肿瘤标志物 / 血压…… 逐年连线 |
-| 🫀 | **器官系统分类** | 按肺、甲状腺、妇科… 分门别类 |
-| 🟢🔴 | **变好 / 变差 / 稳定** | 四象限，带证据，不含糊 |
-| 💬 | **家属大白话版** | 不用懂医学，也能看明白 |
+| 📈 | **逐个看·病灶尺寸轨迹** | 每个结节**只和自己比**，标清**年-月 + 检查类型** |
+| ⚠ | **关键数据缺口** | 哪个部位**缺最新检查**、是没做还是没找到、**现在该补做啥** |
+| 🔬 | **认准一种检查 + 多久查一次** | 为什么尺寸老对不上；正常体检/随访到底该做哪种 |
+| 🩺 | **先检查、后手术** | 缺数据先补检查，手术放到拿到结果之后再定 |
+| 💬 | **家属大白话版** | 不懂医学也能看明白 |
 | ✅ | **问医生清单** | 直接打印带去医院 |
 
-> 🔒 **铁律**：一切结论基于病历原文，**不编造**；不确定的写"需医生确认"；
-> 严重信号标红。**它帮你理解病情、和医生沟通——但永远不替代医生。**
+> 🔒 **铁律**：一切基于病历原文，**不编造**；不确定写"需医生确认"；严重信号标红。
+> **它帮你理解病情、和医生沟通——但永远不替代医生。**
+
+### 🌟 和别的"病历总结"最不一样的三点
+
+1. **同部位才比、注明检查类型** —— 不会把"肺结节"和"淋巴结"混在一张表。每个数据点都写清是哪年哪月、用 CT 还是超声还是 PET，因为**不同设备测出来本就对不上**。
+2. **告诉你"缺什么检查"** —— 明确指出哪个部位最近一次标准检查是什么时候、有没有复查，回答家属最常问的"是没找到，还是根本没做"。
+3. **"先检查、后手术"** —— 不鼓励在没有最新影像时直接开刀；先补齐检查、再由医生决定。
 
 <div align="center">
 <table><tr>
 <td align="center"><b>📱 手机视图</b><br><img src="docs/preview-mobile.png" width="240"></td>
 <td align="center"><b>🖥 完整报告</b><br><img src="docs/preview-full.png" width="430"></td>
 </tr></table>
-<sub>以上预览均使用<b>完全虚构</b>的示例病人「林安然(化名)」数据——与任何真实病人无关。</sub>
+<sub>以上预览均使用<b>完全虚构</b>的示例病人「林安然（化名）」——与任何真实病人无关。</sub>
 </div>
 
 ---
@@ -75,11 +82,11 @@ python3 scripts/build_report.py examples/sample_patient.json out.html
 python3 scripts/export_pdf.py out.html out      # → out-long.png  +  out.pdf
 ```
 
-打开 `out.html` 就是上面那张报告。换成你自己的 `patient.json` 就是你家人的报告。
+打开 `out.html` 就是上面那份报告。换成你自己的 `patient.json`，就是你家人的报告。
 
 ## 🤖 作为 Claude Skill 使用（推荐）
 
-真正的魔法在这里——你不用手填 JSON。把 skill 装进 Claude：
+魔法在这里——你不用手填 JSON。把 skill 装进 Claude：
 
 ```bash
 git clone https://github.com/SkylarWJY/medical-history-report \
@@ -90,18 +97,17 @@ git clone https://github.com/SkylarWJY/medical-history-report \
 Claude 会照着 [`SKILL.md`](SKILL.md) 的 5 步走：
 
 ```
-清点资料  →  并行多智能体逐张读取/提取病灶尺寸  →  汇总结构化  →  生成 HTML  →  导出长图/PDF
+清点资料 → 并行多智能体逐张读取/提取病灶尺寸 → 汇总结构化(含缺口/检查计划) → 生成 HTML → 导出长图/PDF
 ```
 
-> 💡 资料量大也不怕：上百份扫描件时，skill 会**为每份就诊档案派一个提取智能体并行处理**——
-> 几小时的活儿压缩到几分钟。
+> 💡 资料量大也不怕：上百份扫描件时，skill 会**为每份就诊档案派一个提取智能体并行处理**——几小时的活儿压缩到几分钟。
 
 ## 📦 仓库结构
 
 ```
 medical-history-report/
-├─ SKILL.md                    # 给 Claude 的工作流指令（5 步法）
-├─ assets/schema.json          # 病灶/诊断/指标的结构化数据规范
+├─ SKILL.md                    # 给 Claude 的工作流指令（5 步法 + 同部位可比/先检查后手术原则）
+├─ assets/schema.json          # 病灶/诊断/缺口/检查计划的结构化数据规范
 ├─ scripts/
 │  ├─ build_report.py          # JSON → 手机自适应 HTML（零依赖，已测试）
 │  └─ export_pdf.py            # HTML → 长图 PNG + PDF（Chrome + Pillow）
@@ -110,8 +116,8 @@ medical-history-report/
    └─ sample_report.html       # 生成好的样例报告
 ```
 
-数据怎么填？看 [`assets/schema.json`](assets/schema.json)（每个模块都是可选的，
-你给什么它画什么）和 [`examples/sample_patient.json`](examples/sample_patient.json) 的完整范例。
+数据怎么填？看 [`assets/schema.json`](assets/schema.json)（每个模块都可选，你给什么它画什么）
+和 [`examples/sample_patient.json`](examples/sample_patient.json) 的完整范例。
 
 ## 🔐 隐私优先
 

diff --git a/SKILL.md b/SKILL.md
@@ -1,17 +1,21 @@
 ---
 name: medical-history-report
 description: >-
-  Turn a person's multi-year medical records (scanned reports, lab results,
-  imaging, ultrasound, CT/MRI, PET-CT, pathology, discharge summaries) into a
-  single self-contained, mobile-friendly HTML health dashboard for family
-  members — with a disease timeline, a diagnosis-evolution table, per-lesion
-  size-tracking tables (how each nodule/mass changed over the years), lab trend
-  charts, risk cards, a plain-language family explanation, and a doctor-visit
-  checklist. Use when someone provides a folder or zip of medical records
-  (especially many scanned images) and wants a clear visual summary of overall
-  health status, disease progression, key risks, and next steps. Output is
-  always evidence-based, flags uncertainty as "需医生确认", and never replaces a
-  doctor. Can also export the report to a long PNG image and a PDF.
+  For families caring for a patient at home: turn years of scattered medical
+  records (scanned reports, labs, ultrasound, CT/MRI, PET-CT, pathology,
+  discharge summaries) into ONE clear, mobile-friendly HTML health report —
+  a disease-history timeline, a diagnosis-evolution table, per-lesion
+  size-tracking where each nodule/mass is compared ONLY to itself over time
+  (with the exam type + year-month on every data point), lab-trend charts, a
+  "what exam is each site missing / go get it" data-gap table, an
+  "认准一种检查 + how often" follow-up plan (what a proper checkup should
+  include), risk cards, a plain-language family explanation, and a doctor-visit
+  checklist. Enforces a "examine first, decide surgery later" ordering. Use when
+  someone provides a folder or zip of medical records (especially many scanned
+  images) and wants a clear summary of overall status, what got better / worse /
+  stayed the same, what's missing, and what to do next. Always evidence-based,
+  flags uncertainty as "需医生确认", never replaces a doctor; can export a long PNG
+  and PDF.
 ---
 
 # 病历 → 健康全景报告（Medical History Report）
@@ -44,13 +48,26 @@ description: >-
   按 `assets/schema.json` 里的结构返回。这能把大量图片的读取从几小时压缩到几分钟。
 
 把提取结果整理成符合 **`assets/schema.json`** 的一个 JSON（见 `examples/sample_patient.json` 演示）。
-关键是 `lesions[]`：把同一病灶历次尺寸**按时间排序**，标注 trend（up/down/flat），
-这样报告里就能呈现"附件占位 2015→2025 的精确大小轨迹"。
+关键是 `lesions[]`：把同一病灶历次尺寸**按时间排序**，标注 trend（up/down/flat）+ **每行的检查类型(modality)**，
+这样报告里就能呈现"某结节 2015→2025 的精确大小轨迹"。
+
+> ⚠ **同部位才可比、注明日期与检查类型**：尺寸只在"同一部位 + 同一种检查"之间比较才有意义。
+> 不同部位**绝不**放进同一张对比表；每个数据点都要写清 **年-月** 和 **CT/超声/PET/MRI**——
+> 因为同一个肿块常被不同设备测，数字本就对不上。
 
 ### 3. 汇总成结构化 JSON
-按器官系统归类、画出诊断演变史（`evolution`）、整理指标趋势（`lab_trends`/`markers`）、
-写 Top 问题、变好/变差/稳定四分类、风险矩阵、家属版解释、行动建议、问医生清单、最终结论。
-**所有文字均来自原文或基于原文的克制解读**。
+按器官系统归类，并填好这些"让家属看懂"的板块：
+- `evolution` 诊断演变史 · `lesions` 每个病灶单独一张卡（只和自己比）· `lab_trends`/`markers` 指标趋势
+- **`data_gaps` 关键数据缺口**：每个部位最近一次标准检查是什么时候、**有没有复查**、现在该补做什么——
+  明确回答家属常问的"是没找到报告，还是根本没做这个检查"。
+- **`exam_plan` 每个部位认准一种检查 + 多久查一次**：既解释"为什么尺寸对不上"，
+  也相当于一份"正常随访/体检该做哪些检查"的清单（如 肺→薄层CT、甲状腺→超声、盆腔占位→增强MRI）。
+- `top_issues` / `changes` 变好-没变-变差（**三类互斥、每件事只出现一次**）/ `risk_matrix` / `family_qa` / `actions` / `doctor_questions` / `conclusion`。
+
+> 🩺 **"先检查、后手术"原则**：凡是缺最新数据的病灶，`actions.now` 一律先写"补做对应检查（认准同一种、和上一次比）"，
+> 把"是否手术/治疗"放到 `actions.m1`（拿到结果 + 医生/多学科会诊后再定）。**不要在没有最新检查时就建议手术。**
+
+**所有文字均来自原文或基于原文的克制解读；不确定处写"需医生确认"。**
 
 ### 4. 生成 HTML
 ```bash
